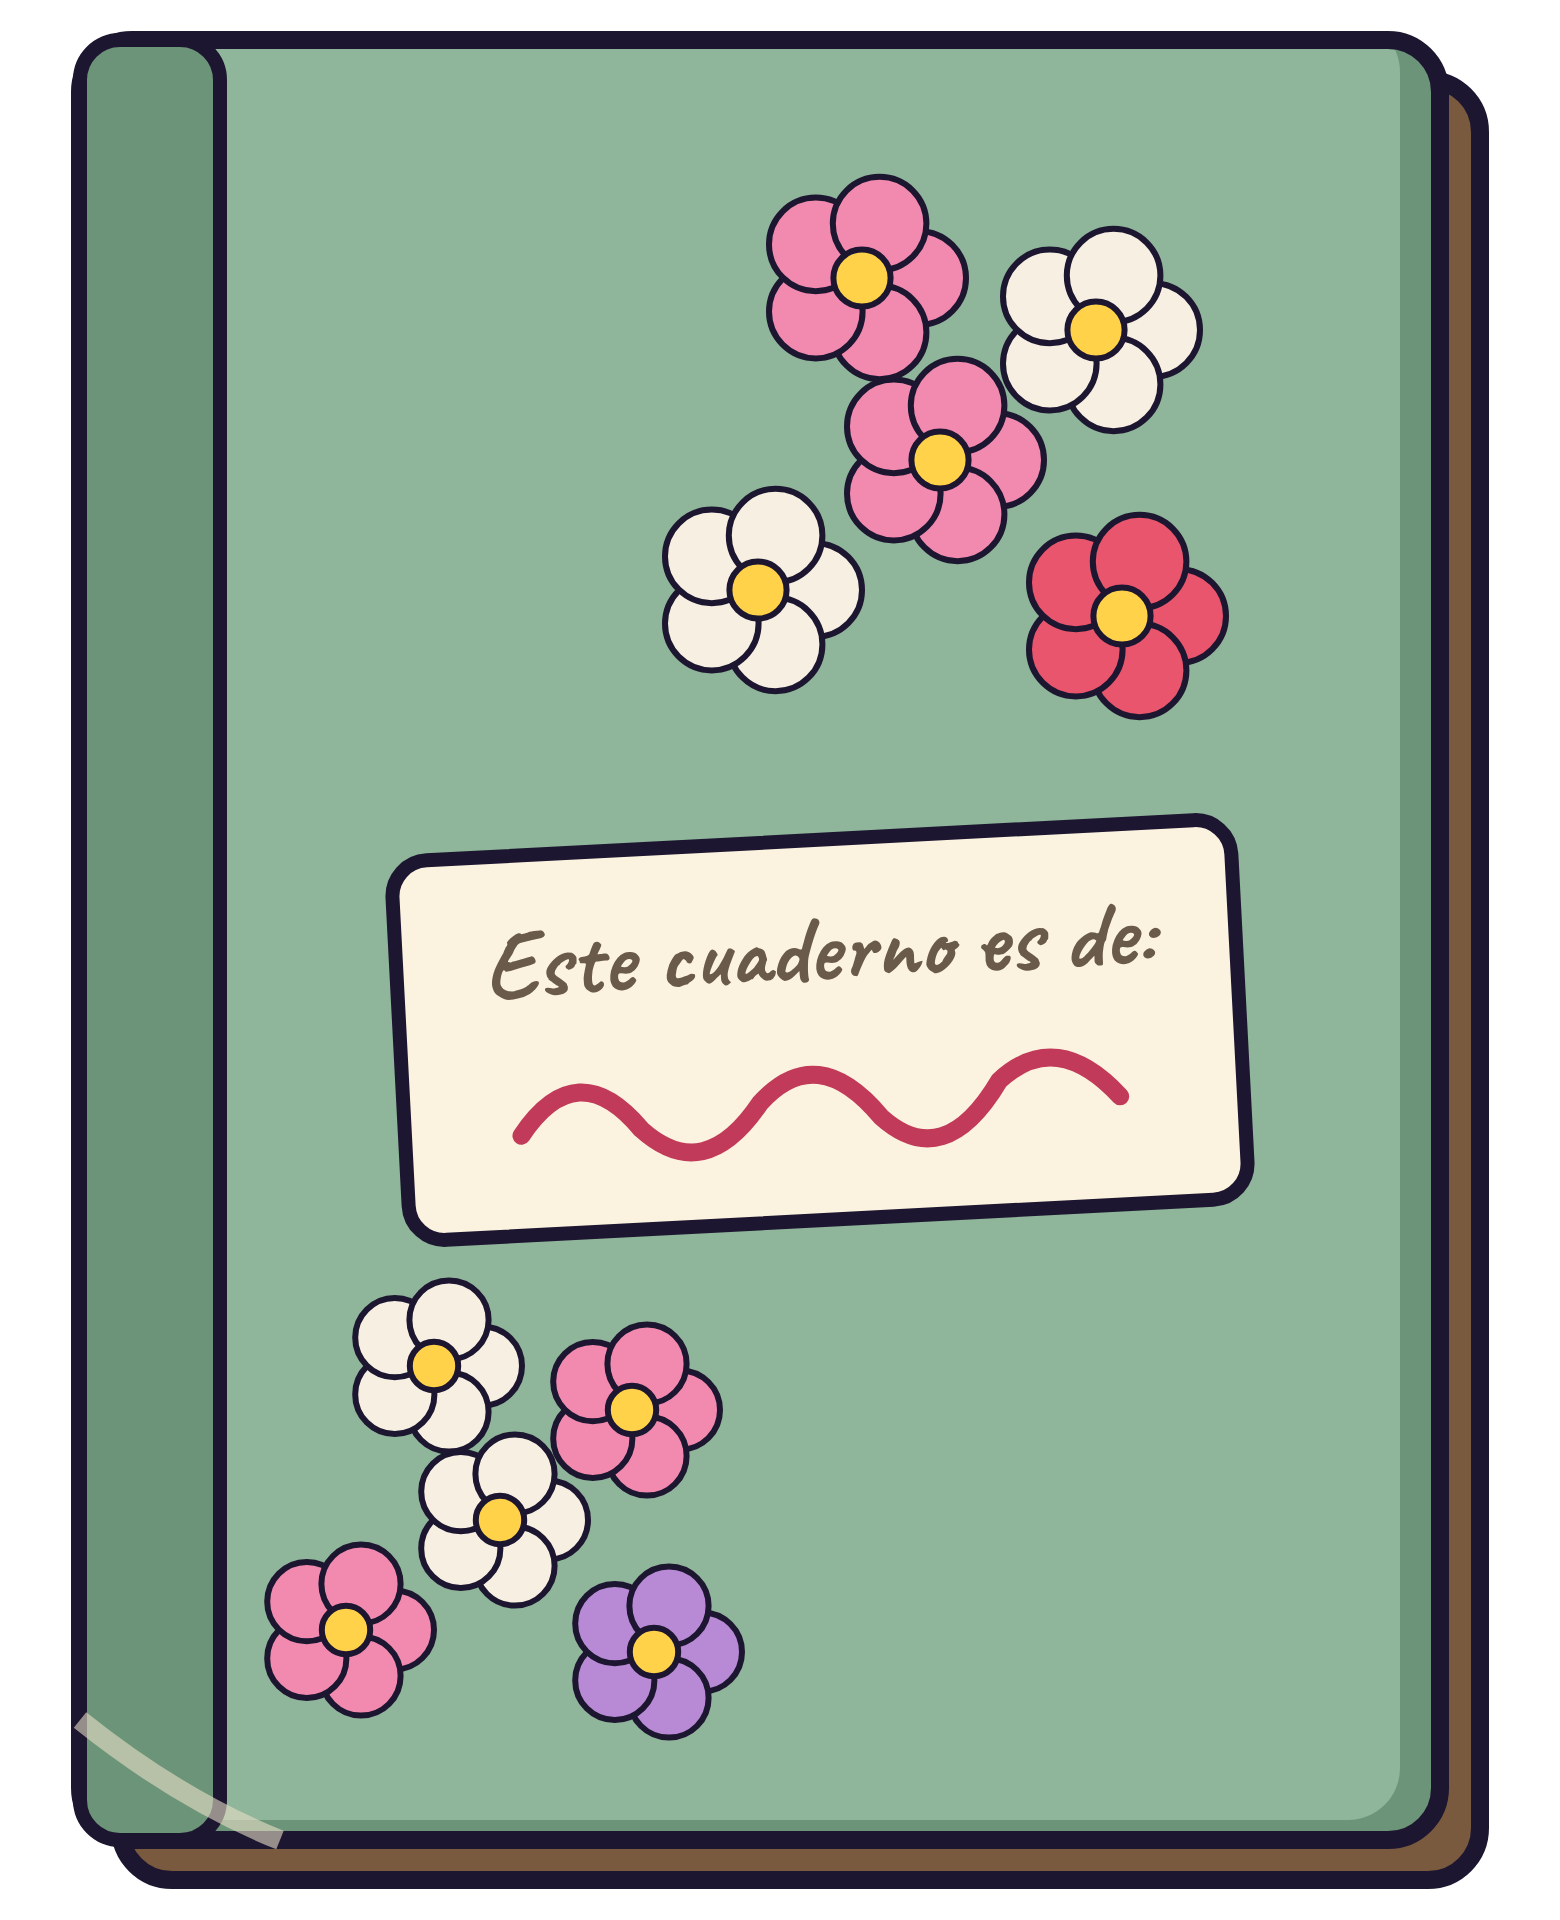
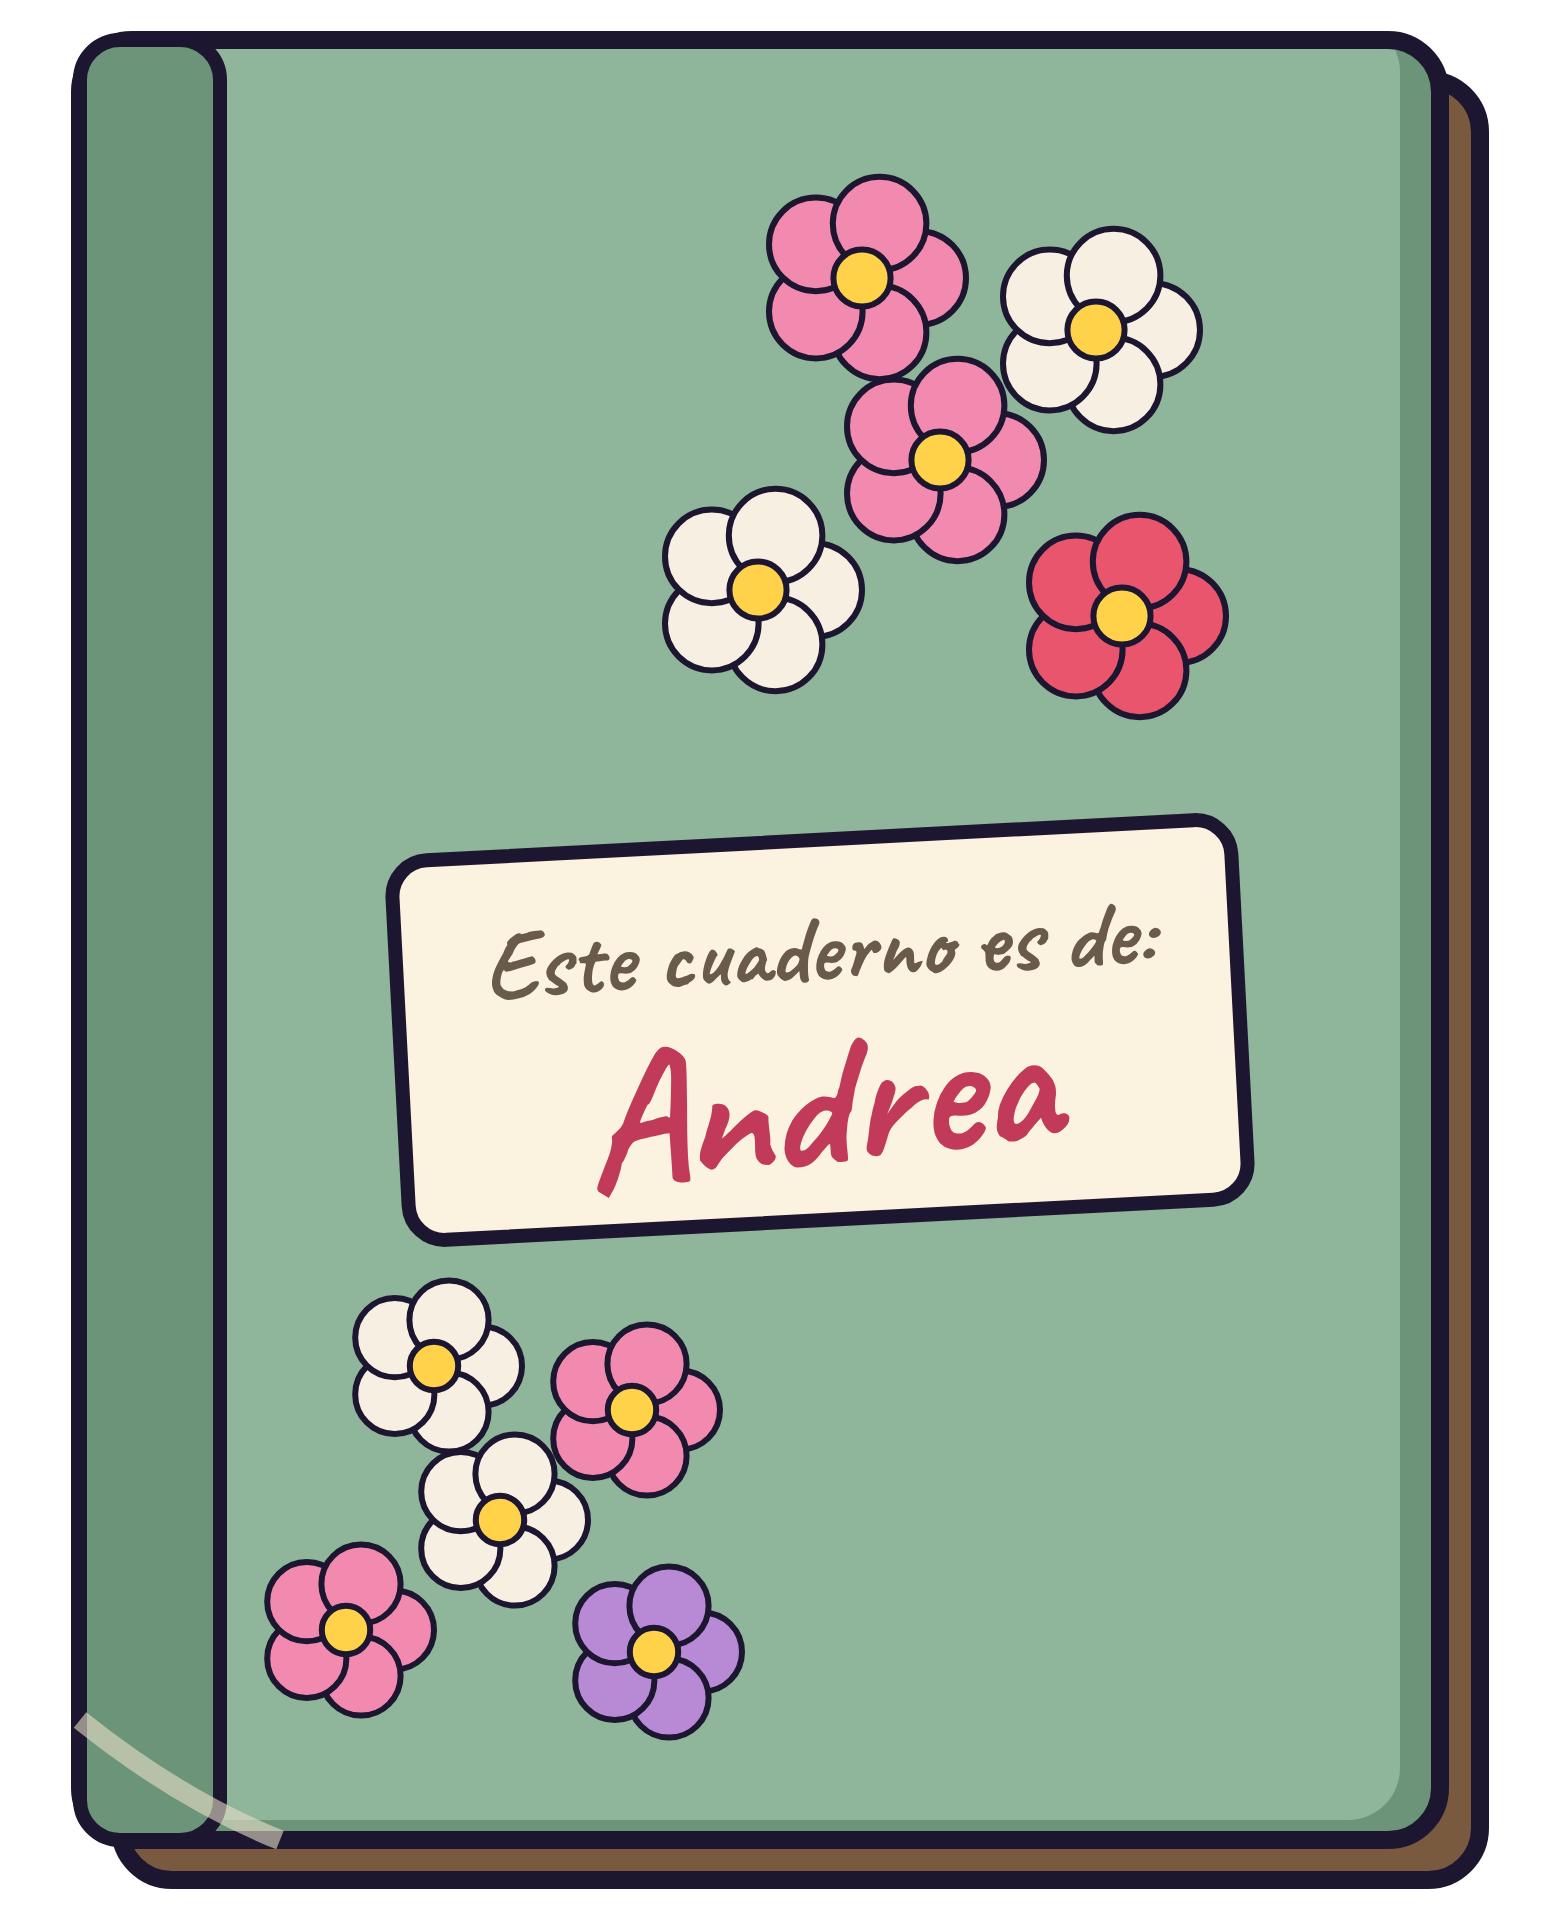
Cuaderno P1: nuevas F12/F16 + nombre Andrea

Changed region(s): [[0.3385, 0.5312, 0.7385, 0.625]]

diff --git a/cuaderno-pov/art.py b/cuaderno-pov/art.py
@@ -152,6 +152,23 @@ def _flores(cx, cy, s, cols):
         b += f'<circle cx="{x}" cy="{y}" r="{11 * s:.1f}" fill="#ffd24a" stroke="{OL}" stroke-width="3"/>'
     return b
 
+def _nina_cabeza():
+    """Tú (la mamá) con 5 años: media melena con flequillo y diadema azul (distinta de Sofía)."""
+    b = cel('<path d="M226 480 Q200 250 400 220 Q600 250 574 480 Q580 590 540 640 L260 640 Q220 590 226 480Z"/>', "#6b3a1e", "#4a2612", "#8a5230", -24, -10, 8)
+    b += neck(362, 590, 76, 70) + face(400, 430, 162)
+    b += cel('<path d="M238 410 Q236 250 400 236 Q564 250 562 410 Q520 330 400 340 Q280 330 238 410Z"/>', "#6b3a1e", "#4a2612", "#8a5230", -20, -10, 8)
+    b += '<path d="M250 330 Q400 230 550 330" stroke="#4a8fd8" stroke-width="22" fill="none" stroke-linecap="round"/>'
+    b += '<ellipse cx="290" cy="520" rx="40" ry="24" fill="#f08a7a" opacity="0.5"/><ellipse cx="510" cy="520" rx="40" ry="24" fill="#f08a7a" opacity="0.5"/>'
+    b += cel('<path d="M394 446 Q424 482 408 498 Q392 504 380 494 Q382 470 394 446Z"/>', SK, SKS, None, -8, -4, 5)
+    return b
+
+def nina_mama():
+    h = _nina_cabeza() + MA._cejas("feliz") + MA._ojos("neutral") + _pestanas() + MA._boca("timido")
+    torso = '<path d="M160 1900 L170 900 Q180 770 300 730 Q400 712 500 730 Q620 770 630 900 L640 1900Z"/>'
+    b = cel(torso, "#7fb0e6", "#5a8cc4", "#a6cbf2", -46, -8, 8)
+    b += f'<g transform="translate(400,700) scale(1.18) translate(-400,-640)">{h}</g>'
+    return svg(800, 1900, b)
+
 def cuaderno():
     """Cuaderno viejo cerrado: tapa verde salvia con flores, esquinas gastadas, etiqueta con un nombre de niña."""
     b = f'<rect x="60" y="40" width="680" height="900" rx="26" fill="#7a5a3e" stroke="{OL}" stroke-width="9"/>'
@@ -162,7 +179,7 @@ def cuaderno():
     # etiqueta con nombre a mano (garabato ilegible + subrayado)
     b += f'<rect x="200" y="420" width="420" height="190" rx="18" fill="#fbf3df" stroke="{OL}" stroke-width="7" transform="rotate(-3 410 515)"/>'
     b += '<text x="410" y="490" font-family="Caveat" font-weight="700" font-size="48" text-anchor="middle" fill="#6a5a4a" transform="rotate(-3 410 490)">Este cuaderno es de:</text>'
-    b += '<path d="M260 560 Q290 520 320 560 Q350 590 380 550 Q410 520 440 560 Q470 590 500 545 Q530 520 560 556" stroke="#c23a5a" stroke-width="9" fill="none" stroke-linecap="round" transform="rotate(-3 410 550)"/>'
+    b += '<text x="410" y="582" font-family="Caveat" font-weight="700" font-size="96" text-anchor="middle" fill="#c23a5a" transform="rotate(-6 410 560)">Andrea</text>'
     # desgaste
     b += '<path d="M40 860 Q90 900 140 920" stroke="#e8dfc8" stroke-width="10" fill="none" opacity="0.6"/>'
     return svg(780, 960, b)
@@ -175,7 +192,7 @@ def caja_desvan():
     return svg(800, 800, b)
 
 LAYERS = {"bg_desvan": bg_desvan, "bg_cuarto_sofia": bg_cuarto_sofia, "cuaderno": cuaderno, "caja_desvan": caja_desvan,
-          "sofia_mano_crayola": sofia_mano_crayola}
+          "sofia_mano_crayola": sofia_mano_crayola, "nina_mama": nina_mama}
 for k in ("neutral", "llora", "triste", "timido", "feliz", "enojado"):
     LAYERS["sofia_" + k] = (lambda kk: (lambda: sofia(kk)))(k)
     LAYERS["sofia_" + k + "_hab"] = (lambda kk: (lambda: sofia(kk, True)))(k)

diff --git a/cuaderno-pov/guion_cuaderno1.py b/cuaderno-pov/guion_cuaderno1.py
@@ -24,16 +24,16 @@ LINEAS = [
   "Pero esa nota *no* estaba ahí cuando eras *niña.* La tinta… está *fresca.*"),
  ("F11","S","[whispers, curious] Mami… ¿qué es eso?",
   "*Mami…* ¿qué es *eso?*"),
- ("F12","N","Imprimes la hoja de la S, y se sientan juntas en el suelo del desván.",
-  "*Imprimes* la hoja de la *S,* y se sientan *juntas* en el suelo del *desván.*"),
+ ("F12","N","El cuaderno es muy viejo… así que imprimes la hoja de la S para que practique primero. Y se sientan juntas en el suelo del desván.",
+  "El cuaderno es muy *viejo…* así que *imprimes* la hoja de la *S* para que *practique* primero. Y se sientan *juntas* en el suelo del *desván.*"),
  ("F13","S","[concentrated] La S es una culebrita… arriba la curva… y abajo.",
   "La *S* es una *culebrita…* arriba la *curva…* y *abajo.*"),
  ("F14","N","La primera le sale torcida. La segunda… perfecta.",
   "La primera le sale *torcida.* La segunda… *perfecta.*"),
  ("F15","S","[excited, happy] ¡Me salió! ¡Mami, me salió!",
   "*¡Me* *salió!* ¡Mami, me *salió!*"),
- ("F16","N","Pasas la página. Y hay un mensaje nuevo.",
-  "Pasas la *página.* Y hay un mensaje *nuevo.*"),
+ ("F16","N","Entonces escribe su S en el cuaderno, encima de la punteada. Pasas la página… y hay un mensaje nuevo.",
+  "Entonces escribe su *S* en el *cuaderno,* encima de la *punteada.* Pasas la *página…* y hay un mensaje *nuevo.*"),
  ("F17","A","[warm, nostalgic] Tu mamá también decía que no servía para escribir. Lloró tres tardes con esta misma S.",
   "Tu mamá también decía que no servía para *escribir.* Lloró tres *tardes* con esta misma *S.*"),
  ("F18","N","[emotional] Tú no te acordabas de eso. Y abajo brilla una letra dorada: la C. La primera de una palabra secreta.",
